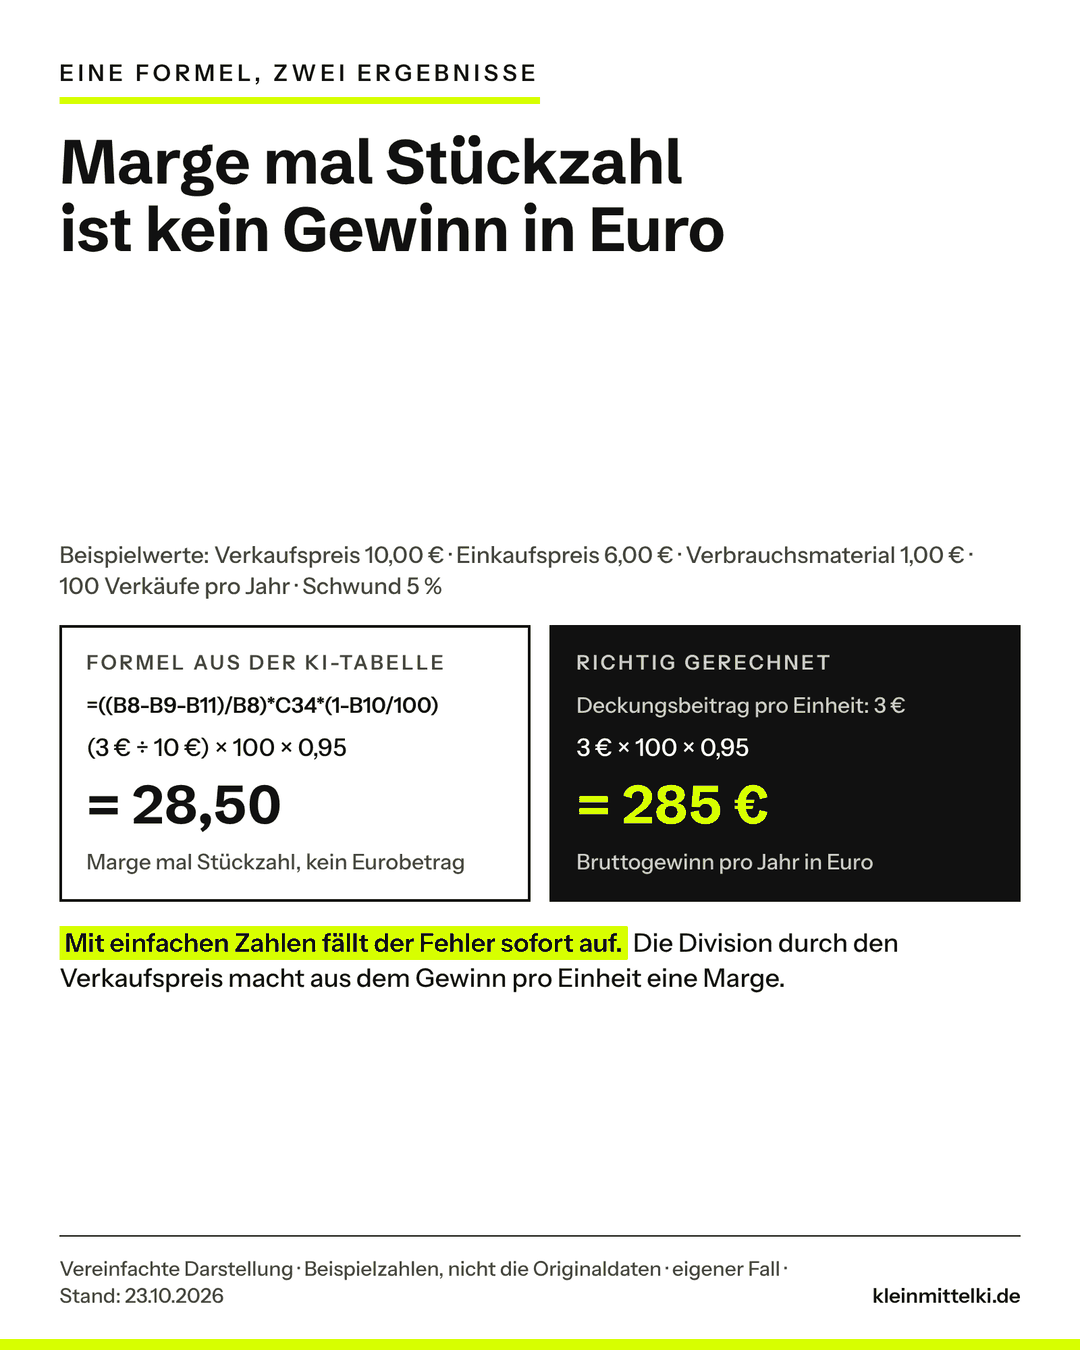
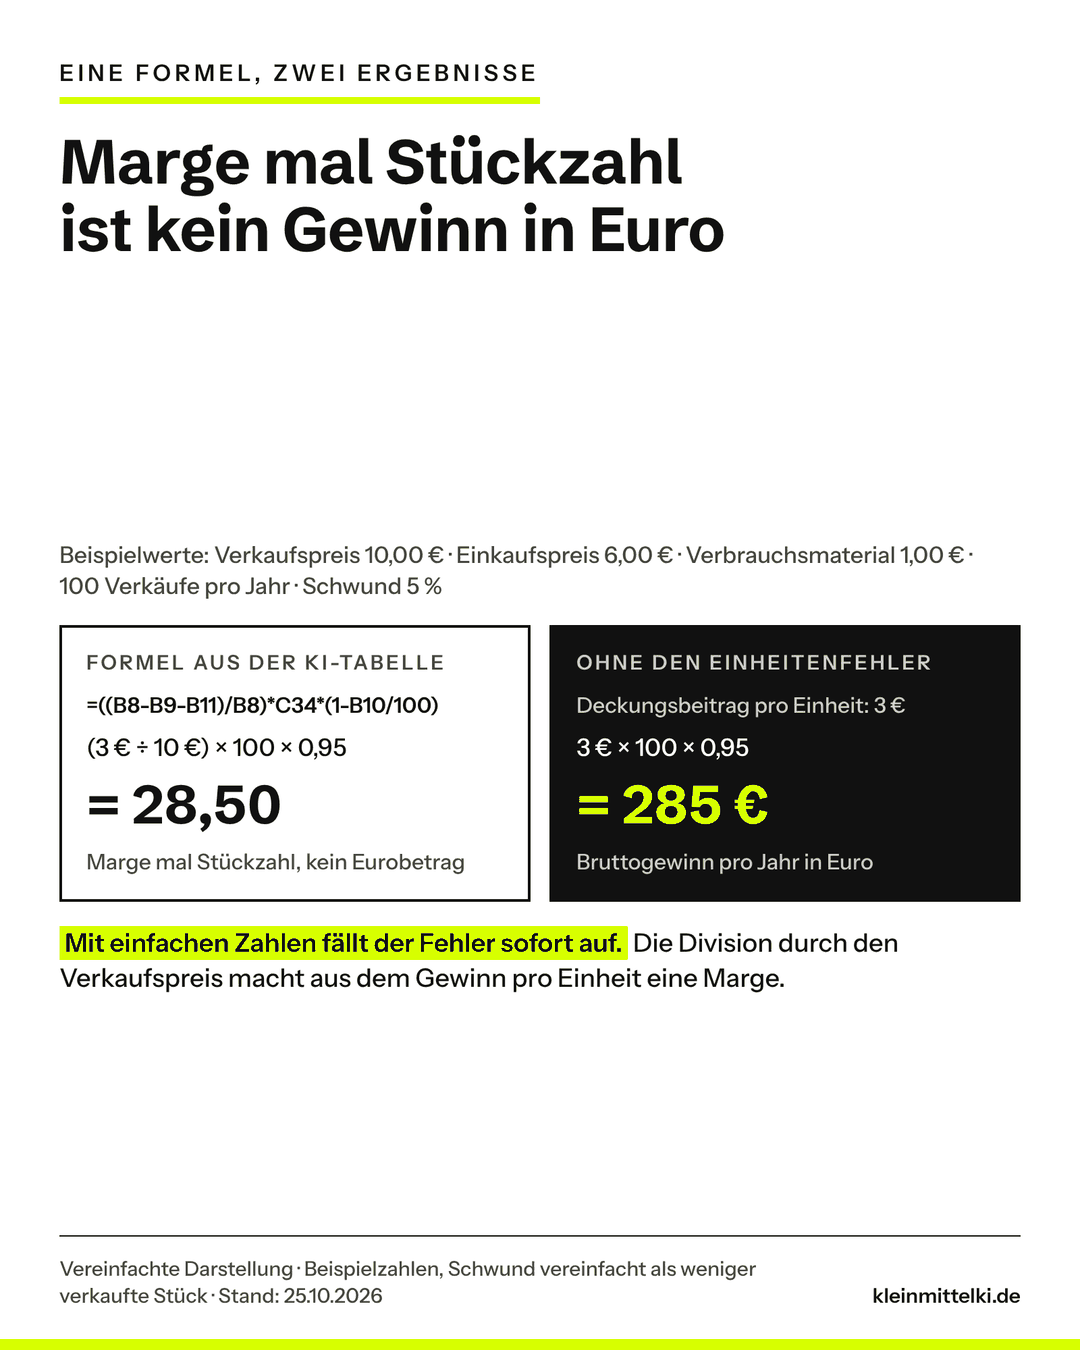
Leitfaden KI-Ergebnisse: Zwischenstand Überarbeitung (Prüfung läuft)
Neue Überschrift, Bild-Beispiel als eigene Grafik g6, Quellen-Aussagen
korrigiert, Excel-Rechnung präzisiert, OLG-Link, Vorschaubild neu.
Status bleibt wartet-auf-till, bis der Prüfer bestanden meldet.

Claude-Session: https://claude.ai/code/session_01B7jCiT8ratwnWtuZxVNsq7

Changed region(s): [[0.5194, 0.4667, 0.8556, 0.4978], [0.4278, 0.9333, 0.7333, 0.9644], [0.0611, 0.9333, 0.3667, 0.9644]]

diff --git a/entwuerfe/ki-ergebnisse-pruefen-leitfaden/g4.html b/entwuerfe/ki-ergebnisse-pruefen-leitfaden/g4.html
@@ -8,12 +8,12 @@
       <p style="margin-top:10px;font-size:18px;line-height:1.35">(3&nbsp;€ ÷ 10&nbsp;€) × 100 × 0,95</p>
       <h3 style="margin-top:8px;font-size:40px">= 28,50</h3>
       <p style="font-size:16px;line-height:1.35;color:#45453F">Marge mal Stückzahl, kein Eurobetrag</p></div>
-    <div class="g-box--dunkel"><div class="g-kopf" style="color:#cfcfc6">Richtig gerechnet</div>
+    <div class="g-box--dunkel"><div class="g-kopf" style="color:#cfcfc6">Ohne den Einheitenfehler</div>
       <p style="margin-top:12px;font-size:16px;color:#cfcfc6">Deckungsbeitrag pro Einheit: 3&nbsp;€</p>
       <p style="margin-top:10px;font-size:18px;line-height:1.35">3&nbsp;€ × 100 × 0,95</p>
       <h3 style="margin-top:8px;font-size:40px;color:#D7FF00">= 285&nbsp;€</h3>
       <p style="font-size:16px;line-height:1.35;color:#cfcfc6">Bruttogewinn pro Jahr in Euro</p></div>
   </div>
   <p class="g-notiz"><mark>Mit einfachen Zahlen fällt der Fehler sofort auf.</mark> Die Division durch den Verkaufspreis macht aus dem Gewinn pro Einheit eine Marge.</p>
-  <div class="g-fuss"><span>Vereinfachte Darstellung · Beispielzahlen, nicht die Originaldaten · eigener Fall · Stand: 23.10.2026</span><b>kleinmittelki.de</b></div>
+  <div class="g-fuss"><span>Vereinfachte Darstellung · Beispielzahlen, Schwund vereinfacht als weniger verkaufte Stück · Stand: 25.10.2026</span><b>kleinmittelki.de</b></div>
 </div>

diff --git a/entwuerfe/ki-ergebnisse-pruefen-leitfaden/g6.html b/entwuerfe/ki-ergebnisse-pruefen-leitfaden/g6.html
@@ -1,0 +1,10 @@
+<div class="g">
+  <div class="g-kicker">Das Prinzip an einem Bild</div>
+  <h1 class="g-titel">Die KI sieht Streifen<br>und sagt „Tiger“</h1>
+  <div class="g-vergleich">
+    <div><div class="g-kopf">Auf dem Foto</div><h3 style="margin-top:12px">Ein Hund im Schatten eines Zauns</h3><p style="font-size:18px;line-height:1.4">Der Schatten legt Streifen über sein Fell.</p></div>
+    <div class="g-box--dunkel"><div class="g-kopf" style="color:#cfcfc6">Die Bilderkennung sagt</div><h3 style="margin-top:12px;font-size:44px;color:#D7FF00">„Tiger“</h3><p style="font-size:18px;line-height:1.4;color:#cfcfc6">Ohne Zweifel, ohne Rückfrage.</p></div>
+  </div>
+  <p class="g-notiz"><mark>Mustererkennung ist kein Verständnis.</mark> Die KI erkennt die Streifen, aber nicht, dass sie auf einem Hund liegen.</p>
+  <div class="g-fuss"><span>Vereinfachte Darstellung · nachgestelltes Beispiel, kein Messergebnis · Stand: 25.10.2026</span><b>kleinmittelki.de</b></div>
+</div>

diff --git a/entwuerfe/ki-ergebnisse-pruefen-leitfaden/beitrag.md b/entwuerfe/ki-ergebnisse-pruefen-leitfaden/beitrag.md
@@ -1,14 +1,14 @@
 ---
-titel: KI klingt sicher. Aber stimmt es auch? So prüfst du KI-Ergebnisse im Betrieb
+titel: "KI irrt sich und klingt trotzdem sicher: So prüfst du KI-Ergebnisse im Betrieb"
 slug: ki-ergebnisse-pruefen-leitfaden
 kategorie: Leitfäden
 tags: [#wissen]
-teaser: Nicht jede KI-Antwort braucht dieselbe Kontrolle. Drei eigene Fehlerfälle, drei Stufen und fünf Regeln helfen, Fehler rechtzeitig abzufangen.
+teaser: Drei echte Fälle zeigen, wie KI danebenliegt. Drei Stufen und fünf Regeln helfen, Fehler abzufangen, bevor sie Geld kosten.
 vorschaubild: vorschaubild.png
 titelbild: titel-ki-ergebnisse-pruefen-leitfaden.jpg
 ---
 
-INTERN – vor Veröffentlichung entfernen: Überarbeitet mit Tills drei eigenen Fällen (Chat 23.10.2026). Alles in Ich-Form stammt aus Tills Text, sprachlich geglättet und gekürzt; abgeschwächt wurden nur Steigerungen („unglaublich nützlich“ → „sehr nützlich“, „begeistert“ und „enorm“ gestrichen) und das Handelsbeispiel aus deinem Text gestrichen (Regel 4). Bitte prüfen: (1) Steckachse – der Text sagt nur, dass für die „100 %“ Angaben fehlten, nicht dass die Achse nicht gepasst hat. (2) Redaktionell formuliert (nicht Ich-Form, aber bitte gegenlesen): Einleitungsabsatz 2, der Gedanke zum Mitnehmen, die Schritte in „Zum Ausprobieren“ und die Überschrift des Prompt-Kastens („Mein Zusatz für technische Fragen“). (3) Ausgedacht und im Text so gekennzeichnet: nur noch Exposé und Speisekarte (zeigen Vermutung → Tatsache bzw. Sicherheitsangaben, was deine Fälle nicht zeigen); Malerbetrieb und Hausverwaltung sind entfallen. (4) LinkedIn-Beitrag von Alex Lichtenberger: nach deinem Text als Anstoß genannt, aber nicht verlinkt (Redaktion konnte ihn nicht lesen) – Link bitte selbst ergänzen oder so lassen. (5) OLG-Hamm-Beitrag (olg-hamm-chatbot-haftung) verlinken, sobald er online ist: Abschnitt „Das eigentliche Risiko …“, Satz „Was ein Chatbot auf der Website …“. Titel-Alternative aus deinem Text: „ChatGPT lag falsch. Und war sich trotzdem sicher.“ Grafiken: fünf Schaubilder eingebunden; neu g4 (Excel-Rechnung 28,50 vs. 285 €), g5 an die neuen Regeln 3 und 4 angepasst.
+INTERN – vor Veröffentlichung entfernen: Überarbeitung 25.10.2026 nach deinem Wunsch (Chat): (a) Neue Überschrift, selbsterklärend; Vorschaubild neu. (b) Bild-Beispiel aus dem LinkedIn-Material als eigene Grafik nachgestellt (Hund im Zaunschatten wird als „Tiger“ erkannt – so zeigt es das Bild in deinem Material; falls du einen Löwen meinst, tauschen wir das Tier). Das Original-Bild nutzen wir nicht: Rechte und Herkunft sind unklar, und der CI-Baukasten erlaubt keine fremden Bilder. Im Text steht ausdrücklich, dass es eine Illustration ist und streng genommen eine falsche Bilderkennung, keine Halluzination. (c) Fachlich korrigiert nach erneutem Abgleich mit den Originalquellen: OpenAI sagt nicht, dass Sprachmodelle „nie fehlerfrei“ werden, sondern dass sie nie alle Fragen richtig beantworten können und Halluzinationen vermeidbar sind, wenn das Modell Unsicherheit zugibt; der Satz „Darauf hast du keinen Einfluss“ widersprach Regel 2; „falsche Daten“ heißt jetzt „falsche Datumsangaben“ (OpenAI meint dates); der Tipp „in einem neuen Chat“ ist jetzt als unser eigener Zusatz erkennbar, nicht als Anthropic-Zitat; die Excel-Rechnung sagt jetzt klar, dass 285 € die Formel ohne den Einheitenfehler ist, nicht eine vollständige Schwundkalkulation. Neu und belegt: OpenAIs Erklärung, woher Halluzinationen kommen (Rechtschreibung folgt Mustern, der Geburtstag eines Haustiers nicht). (d) Verständlicher: Fachwörter erklärt (Sprachmodell, Deckungsbeitrag, Marge, Prompt), „Audit“ und „Zellbezüge“ ersetzt. Schaubild Exposé entfällt (der Text erklärt es), damit es bei fünf Grafiken bleibt. OLG-Hamm-Beitrag ist jetzt verlinkt. Weiter offen von dir: (1) Steckachse – dein Text sagt nur, dass für die „100 %“ Angaben fehlten, nicht dass die Achse nicht gepasst hat; so steht es auch im Beitrag. (2) Redaktionell formuliert, bitte gegenlesen: Einleitungsabsatz 2, der Gedanke zum Mitnehmen, die Schritte in „Zum Ausprobieren“, die Überschrift des Prompt-Kastens. (3) Exposé und Speisekarte sind ausgedachte Beispiele und so gekennzeichnet. (4) Der LinkedIn-Beitrag von Alex Lichtenberger ist als Anstoß genannt, aber nicht verlinkt (für die Redaktion nicht lesbar).
 
 Die Excel-Datei, die ChatGPT mir für ein Geschäftsmodell gebaut hatte, sah professionell aus: saubere Tabellen, Eingabefelder, automatisch berechnete Kennzahlen. Alles wirkte durchdacht. Nur: Einige Berechnungen stimmten nicht. Ohne meine eigene Kontrolle hätte ich die Fehler möglicherweise übersehen.
 
@@ -20,17 +20,25 @@ Genau das ist das Tückische: KI liegt nicht nur manchmal falsch. Sie liegt fals
 
 ## Warum KI so überzeugend danebenliegen kann
 
-Der Fachbegriff dafür ist **Halluzination**. OpenAI beschreibt das in einem Forschungsbeitrag vom September 2025 als plausible, aber falsche Aussagen, die ein Sprachmodell erzeugt.
+Ein Bild macht das Prinzip greifbar. Stell dir ein Foto vor: Ein Hund steht im Schatten eines Zauns, die Schattenstreifen lassen sein Fell gestreift aussehen. Eine Bilderkennung soll sagen, was auf dem Foto ist, und antwortet: Tiger.
+
+![Schaubild: Ein Hund im Schatten eines Zauns, dessen Fell dadurch gestreift wirkt, wird von einer Bilderkennung als „Tiger“ bezeichnet; Merksatz: Mustererkennung ist kein Verständnis](kmk-ki-pruefen-g6.png "Ein nachgestelltes Beispiel: Die KI erkennt das Muster, nicht das Tier.")
+
+Die KI hat ein Muster erkannt, aber nicht verstanden, was sie sieht. Und sie zweifelt nicht. Streng genommen ist das keine Halluzination, sondern eine falsche Bilderkennung, und das Beispiel ist eine Illustration, kein Messergebnis. Das Grundproblem ist aber dasselbe wie bei ChatGPT: Die Antwort folgt einem Muster, nicht geprüftem Wissen.
+
+Bei Texten heißt das **Halluzination**. OpenAI, der Hersteller von ChatGPT, beschreibt das in einem Forschungsbeitrag vom September 2025 als plausible, aber falsche Aussagen, die ein Sprachmodell erzeugt. Sprachmodelle sind die Technik hinter ChatGPT und ähnlichen KI-Assistenten.
+
+Woher die Fehler kommen, erklärt OpenAI so: Sprachmodelle lernen zuerst an riesigen Textmengen, wie ein Text weitergeht. Rechtschreibung folgt festen Mustern, solche Fehler verschwinden, je größer die Modelle werden. Seltene Einzelfakten wie der Geburtstag eines Haustiers folgen keinem Muster. Genau dort entstehen Halluzinationen.
 
 Wie das aussieht, zeigt OpenAI an einem eigenen Mitautor. Fragt man einen verbreiteten Chatbot nach dem Titel seiner Doktorarbeit, nennt er drei verschiedene Titel. Keiner davon stimmt. Beim Geburtstag passiert dasselbe.
 
-Sprachmodelle werden so trainiert und bewertet, dass Raten sich mehr lohnt als ein ehrliches „Ich weiß es nicht“. OpenAI vergleicht das mit einem Test: Wer den Geburtstag einer Person nicht kennt und rät, liegt immerhin mit einer Chance von 1 zu 365 richtig. Wer „weiß ich nicht“ schreibt, bekommt sicher null Punkte. Also rät das Modell.
+Dazu kommt: Sprachmodelle werden so trainiert und bewertet, dass Raten sich mehr lohnt als ein ehrliches „Ich weiß es nicht“. OpenAI vergleicht das mit einem Test: Wer den Geburtstag einer Person nicht kennt und rät, liegt immerhin mit einer Chance von 1 zu 365 richtig. Wer „weiß ich nicht“ schreibt, bekommt sicher null Punkte. Also rät das Modell.
 
-Wichtig ist auch, was OpenAI daraus folgert: Fehlerfrei werden Sprachmodelle nie, weil manche Fragen sich schlicht nicht beantworten lassen. Unvermeidbar sind Halluzinationen aber auch nicht, denn ein Modell kann sich bei Unsicherheit zurückhalten. Darauf hast du als Anwender keinen Einfluss. Auf deinen eigenen Ablauf schon.
+Wichtig ist auch, was OpenAI daraus folgert: Alle Fragen richtig beantworten werden Sprachmodelle nie, weil sich manche Fragen schlicht nicht beantworten lassen. Halluzinationen sind trotzdem nicht unvermeidbar, denn ein Modell kann bei Unsicherheit sagen, dass es etwas nicht weiß. Wie ein Modell trainiert wird, kannst du nicht beeinflussen. Wie du fragst und mit den Antworten umgehst, schon.
 
 ![Schaubild: Warum Sprachmodelle lieber raten – „Ich weiß es nicht“ bringt sicher 0 Punkte, Raten beim Geburtstag immerhin eine Chance von 1 zu 365; Merksatz: Raten wird belohnt, Zugeben nicht](kmk-ki-pruefen-g1.png "Wer raten darf, rät – das gilt auch für Sprachmodelle.")
 
-Auch die Hilfeseite von OpenAI zu ChatGPT sagt ausdrücklich, dass ChatGPT sicher klingen kann, auch wenn es falschliegt. Als typische Fehler nennt sie falsche Daten und Fakten sowie erfundene Zitate, Studien und Verweise auf Quellen, die es nicht gibt. Die Empfehlung des Herstellers selbst: ChatGPT als ersten Entwurf nutzen, nicht als endgültige Quelle.
+Auch die Hilfeseite von OpenAI zu ChatGPT sagt ausdrücklich, dass ChatGPT sicher klingen kann, auch wenn es falschliegt. Als typische Fehler nennt sie falsche Datumsangaben und Fakten sowie erfundene Zitate, Studien und Verweise auf Quellen, die es nicht gibt. Die Empfehlung des Herstellers selbst: ChatGPT als ersten Entwurf nutzen, nicht als endgültige Quelle.
 
 Nicht jeder Fehler ist dabei eine Halluzination. Eine falsch zugeordnete Excel-Zelle kann auch ein Logikfehler sein. Für dich macht das wenig Unterschied: **Eine KI-Antwort ist ein Vorschlag, kein Ergebnis.**
 
@@ -44,7 +52,7 @@ Für einen Fahrradanhänger an meinem Mountainbike brauchte ich eine passende St
 
 Für diese Sicherheit fehlten entscheidende Informationen. ChatGPT hatte aus der Hinterrad-Einbaubreite von 148 Millimetern auf die Achse geschlossen. Die Einbaubreite einer Nabe ist aber nicht dasselbe wie die nötige Steckachsenlänge, und die Gewindesteigung war nicht überprüft. Auf Nachfrage blieb es zunächst trotzdem dabei. Erst später räumte ChatGPT ein, dass man für eine verlässliche Aussage die Originalachse genauer prüfen müsste.
 
-ChatGPT hatte nicht alle nötigen Informationen, aber trotzdem eine eindeutige Antwort. Für einen Handwerksbetrieb wird das relevant, wenn die KI ein Ersatzteil oder Material empfiehlt. Eine plausible Produktempfehlung ersetzt keine geprüften Spezifikationen und erst recht keine Herstellerfreigabe.
+ChatGPT hatte nicht alle nötigen Informationen, aber trotzdem eine eindeutige Antwort. Für einen Handwerksbetrieb wird das relevant, wenn die KI ein Ersatzteil oder Material empfiehlt. Eine plausible Produktempfehlung ersetzt keine geprüften technischen Daten und erst recht keine Freigabe des Herstellers.
 
 ### Fall 2: Eine professionelle Excel-Kalkulation mit falscher Rechnung
 
@@ -60,11 +68,11 @@ Der zweite Fehler steckte in der Formel für den jährlichen Bruttogewinn:
 
 Fällt dir der Fehler auf?
 
-Die Division durch den Verkaufspreis macht aus dem Gewinn pro Einheit eine Marge. Die wurde dann aber nicht mit einem Umsatz in Euro, sondern mit der Stückzahl multipliziert. Eine Prozentmarge mal Stückzahl ergibt keinen Bruttogewinn in Euro.
+Die Division durch den Verkaufspreis macht aus dem Gewinn pro Einheit eine Marge, also einen Anteil am Preis. Diesen Anteil hat die Formel dann aber nicht mit dem Umsatz in Euro multipliziert, sondern mit der Stückzahl. Ein Anteil mal Stückzahl ergibt keinen Bruttogewinn in Euro.
 
-Mit einfachen Beispielzahlen statt der Originaldaten: Verkaufspreis 10,00 €, Einkaufspreis 6,00 €, Verbrauchsmaterial 1,00 €, 100 Verkäufe im Jahr, 5 % Schwund. Der Deckungsbeitrag pro Einheit liegt bei 3 Euro. Wirkt der Schwund vereinfacht als Minderung der Absatzmenge, ergibt sich 3 € × 100 × 0,95 = 285 €. Die fehlerhafte Formel liefert nur 28,50. Das ersetzt keine vollständige Schwundkalkulation, zeigt aber den Unterschied.
+Mit einfachen Beispielzahlen statt der Originaldaten: Verkaufspreis 10,00 €, Einkaufspreis 6,00 €, Verbrauchsmaterial 1,00 €, 100 Verkäufe im Jahr, 5 % Schwund. Pro Stück bleiben nach Einkauf und Material 3 Euro übrig, der sogenannte Deckungsbeitrag. Rechnet man den Schwund so wie die Tabelle, also vereinfacht als weniger verkaufte Stück, ergibt sich 3 € × 100 × 0,95 = 285 €. Die fehlerhafte Formel liefert nur 28,50. Eine vollständige Kalkulation müsste außerdem berücksichtigen, dass die verdorbene Ware trotzdem eingekauft wurde. Darum geht es hier aber nicht: Schon der Einheitenfehler allein macht aus 285 Euro 28,50.
 
-![Schaubild: Vergleich mit Beispielzahlen (Verkaufspreis 10 €, Einkaufspreis 6 €, Material 1 €, 100 Verkäufe, 5 % Schwund) – die Formel aus der KI-Tabelle =((B8-B9-B11)/B8)*C34*(1-B10/100) ergibt 28,50, richtig gerechnet sind es 3 € × 100 × 0,95 = 285 €](kmk-ki-pruefen-g4.png "Wer mit einfachen Zahlen nachrechnet, sieht sofort, dass die Formel keine Euro liefert.")
+![Schaubild: Vergleich mit Beispielzahlen (Verkaufspreis 10 €, Einkaufspreis 6 €, Material 1 €, 100 Verkäufe, 5 % Schwund) – die Formel aus der KI-Tabelle =((B8-B9-B11)/B8)*C34*(1-B10/100) ergibt 28,50, ohne den Einheitenfehler sind es 3 € × 100 × 0,95 = 285 €](kmk-ki-pruefen-g4.png "Wer mit einfachen Zahlen nachrechnet, sieht sofort, dass die Formel keine Euro liefert.")
 
 Dazu kam das Wachstum. Es sollte sich jeweils auf das Vorjahr beziehen: Bei 100.000 Euro Umsatz und zehn Prozent pro Jahr sind das 110.000 Euro im zweiten und 121.000 Euro im dritten Jahr, nicht 120.000 Euro. Das musste ich ausdrücklich korrigieren lassen.
 
@@ -72,7 +80,7 @@ Dazu kam das Wachstum. Es sollte sich jeweils auf das Vorjahr beziehen: Bei 100.
 
 Danach fragte ich ChatGPT sinngemäß: „Kannst du unsere bisherigen Chats analysieren und herausfinden, wo du falsche Informationen geliefert hast oder ich dich korrigieren musste?“ Die Antwort war hilfreich: ChatGPT fand unter anderem die Excel-Kalkulation und die Steckachse.
 
-Aber woher weiß ich, ob dieses Audit selbst vollständig und richtig ist? ChatGPT konnte nicht garantieren, dass ihm alle früheren Gespräche und Anhänge zur Verfügung standen. Und ich musste trennen, was sich an Gesprächsstellen belegen ließ und was nur Interpretation war. Auch die Kontrolle musste ich also wieder hinterfragen. KI kann Unstimmigkeiten aufdecken und Formeln hinterfragen. Eine Selbstprüfung ist aber kein unabhängiger Beweis, dass alles stimmt.
+Aber woher weiß ich, ob diese Selbstprüfung vollständig und richtig ist? ChatGPT konnte nicht garantieren, dass ihm alle früheren Gespräche und Anhänge zur Verfügung standen. Und ich musste trennen, was sich an Gesprächsstellen belegen ließ und was nur Interpretation war. Auch die Kontrolle musste ich also wieder hinterfragen. KI kann Unstimmigkeiten aufdecken und Formeln hinterfragen. Eine Selbstprüfung ist aber kein unabhängiger Beweis, dass alles stimmt.
 
 ## Das eigentliche Risiko: Niemand schaut mehr hin
 
@@ -80,13 +88,11 @@ Das OWASP-Projekt, eine gemeinnützige Gemeinschaft für IT-Sicherheit, führt F
 
 Fall 2 zeigt, warum das so leicht passiert: Je professioneller ein Ergebnis aussieht, desto fertiger wirkt es. Auch im [Protokoll-Selbstversuch](https://www.kleinmittelki.de/protokoll-per-ki-selbstversuch/) hier im Blog waren im fertig wirkenden Entwurf einige Namen falsch geschrieben.
 
-Was ein Chatbot auf der Website deines Betriebs sagt, sagst am Ende du. Und was die KI ins Angebot schreibt, unterschreibst du.
+Was ein Chatbot auf der Website deines Betriebs sagt, sagst am Ende du, wie ein [Urteil des OLG Hamm](https://www.kleinmittelki.de/olg-hamm-chatbot-haftung/) zeigt. Und was die KI ins Angebot schreibt, unterschreibst du.
 
 Zwei ausgedachte, aber typische Beispiele zeigen weitere Fehlerarten:
 
 **Immobilien: das Exposé.** Der Makler notiert: „Dach vermutlich um 2010 erneuert, Eigentümer unsicher“. Im Exposé steht: „Dach 2010 komplett saniert.“ Aus einer Vermutung ist eine Tatsache geworden, die keiner belegen kann.
-
-![Schaubild: Vergleich am Beispiel eines Exposés – die Notiz „Dach vermutlich um 2010 erneuert, Eigentümer unsicher“ wird im KI-Text zu „Dach 2010 komplett saniert“](kmk-ki-pruefen-g2.png "Der gefährlichste Fehler ist der, der wie eine Verbesserung aussieht.")
 
 **Gastronomie: die neue Speisekarte.** Die Inhaberin lässt die Karte von der KI kürzer formulieren. Dabei fällt bei einem Gericht der Hinweis auf Nüsse weg, bei einem anderen steht plötzlich „glutenfrei“. Hier geht es nicht mehr um Stil, sondern um die Gesundheit von Gästen.
 
@@ -110,13 +116,13 @@ Für den Einstieg reicht eine kurze Teamrunde: Sammelt, wofür bei euch KI genut
 
 ## Fünf Regeln, die die meisten Fehler abfangen
 
-Für Stufe 2 und 3 helfen fünf Regeln. Regel 1 und 2 stützen sich auf die Empfehlungen von OWASP und die Hinweise des Anbieters Anthropic selbst; Regel 3 bis 5 sind praktische Ergänzungen aus den drei Fällen und dem Betriebsalltag.
+Für Stufe 2 und 3 helfen fünf Regeln. Regel 1 und 2 stützen sich auf Empfehlungen von OWASP und von Anthropic, dem Hersteller des KI-Assistenten Claude. Regel 3 bis 5 sind praktische Ergänzungen aus den drei Fällen und dem Betriebsalltag.
 
 ![Checkliste mit fünf Regeln: mit eigenen Unterlagen abgleichen, Fakten und Annahmen trennen lassen, Zahlen nicht der KI glauben und von Hand nachrechnen, KI prüft mit und ein Mensch entscheidet, testen, was bei fehlenden Angaben passiert](kmk-ki-pruefen-g5.png "Zum Abhaken: Je mehr davon in deinem Ablauf steckt, desto weniger rutscht durch.")
 
 **1. Mit eigenen Unterlagen abgleichen.** Preise gehören in die Preisliste, Allergene in die Rezeptur, technische Maße ins Datenblatt des Herstellers. Gib der KI diese Unterlagen mit und gleiche das Ergebnis mit ihnen ab. OWASP empfiehlt genau das: Antworten auf geprüfte, vertrauenswürdige Quellen stützen und kritische Inhalte von Menschen gegenprüfen lassen.
 
-**2. Fakten und Annahmen trennen lassen.** Erlaube der KI, „weiß ich nicht“ zu sagen. Anthropic schreibt in seiner Dokumentation, dass allein diese Erlaubnis falsche Angaben deutlich verringern kann. Ein weiterer Tipp aus derselben Dokumentation: Stell dieselbe Frage mehrmals, am besten jeweils in einem neuen Chat, und vergleiche die Antworten. Abweichungen sind ein Warnsignal. Wenn ich heute nach technischen Produkten frage, will ich auch wissen, welche Angaben für eine sichere Aussage fehlen. Ein hilfreicher Zusatz im Prompt:
+**2. Fakten und Annahmen trennen lassen.** Erlaube der KI, „weiß ich nicht“ zu sagen. Anthropic schreibt in seiner Dokumentation, dass allein diese Erlaubnis falsche Angaben deutlich verringern kann. Ein weiterer Tipp von dort: Stell dieselbe Frage mehrmals und vergleiche die Antworten. Weichen sie voneinander ab, ist das ein Warnsignal. Praktisch heißt das: Frag am besten jeweils in einem neuen Chat, damit die erste Antwort die nächste nicht beeinflusst. Wenn ich heute nach technischen Produkten frage, will ich auch wissen, welche Angaben für eine sichere Aussage fehlen. Ein hilfreicher Zusatz für die Anweisung an die KI, den sogenannten Prompt:
 
 ```html
 <div class="kmk-prompt"><p class="kmk-prompt__label">Mein Zusatz für technische Fragen</p><p class="kmk-prompt__text">„Nenne mir ausdrücklich alle Angaben, die für eine zuverlässige Empfehlung noch fehlen. Trenne bestätigte Fakten von Annahmen und behaupte keine Sicherheit, wenn wichtige Informationen nicht geprüft wurden.“</p></div>
@@ -124,7 +130,7 @@ Für Stufe 2 und 3 helfen fünf Regeln. Regel 1 und 2 stützen sich auf die Empf
 
 Das verbessert die Ausgangslage, garantiert aber keine richtige Antwort. Auch Anthropic schreibt, dass solche Techniken Halluzinationen verringern, aber nicht ganz beseitigen.
 
-**3. Zahlen nicht der KI glauben.** Bei Kalkulationen prüfst du nicht nur das Ergebnis, sondern die Logik: Stimmen die Zellbezüge? Werden Prozent und Euro unterschieden, Umsatz und Absatzmenge getrennt? Bezieht sich eine Steigerung auf die richtige Basis? Passt eine unabhängig gerechnete Stichprobe? Wenn nicht, gehört die ganze Kalkulation auf den Prüfstand.
+**3. Zahlen nicht der KI glauben.** Bei Kalkulationen prüfst du nicht nur das Ergebnis, sondern die Logik: Greifen die Formeln auf die richtigen Zellen zu? Werden Prozent und Euro unterschieden, Umsatz und Absatzmenge getrennt? Bezieht sich eine Steigerung auf die richtige Basis? Passt eine unabhängig gerechnete Stichprobe? Wenn nicht, gehört die ganze Kalkulation auf den Prüfstand.
 
 **4. Die KI darf mitprüfen, aber nicht allein über ihre eigene Arbeit entscheiden.** Fall 3 zeigt die Grenze. Bei wichtigen Ergebnissen braucht es eine unabhängige Kontrolle: eine separate Rechnung, den Abgleich mit Originaldokumenten oder jemanden mit Fachwissen. Eine zweite KI kann helfen, ersetzt aber keine unabhängige Faktenbasis. Bei Stufe 3 gibt eine benannte Person frei. In einem Betrieb mit 30 Leuten kann das die Bürokraft für Angebote sein und die Küchenchefin für die Speisekarte.
 
@@ -148,7 +154,7 @@ Nimm die letzte Kalkulation oder das letzte Angebot, an dem bei euch eine KI mit
 
 ## Quellen
 
-Abgerufen und geprüft am 23.10.2026
+Abgerufen am 23.10.2026, zuletzt geprüft am 25.10.2026
 
 - [OpenAI: Why language models hallucinate (05.09.2025)](https://openai.com/index/why-language-models-hallucinate/)
 - [OpenAI Help Center: Does ChatGPT tell the truth? (abgerufen 23.10.2026)](https://help.openai.com/en/articles/8313428-does-chatgpt-tell-the-truth)
